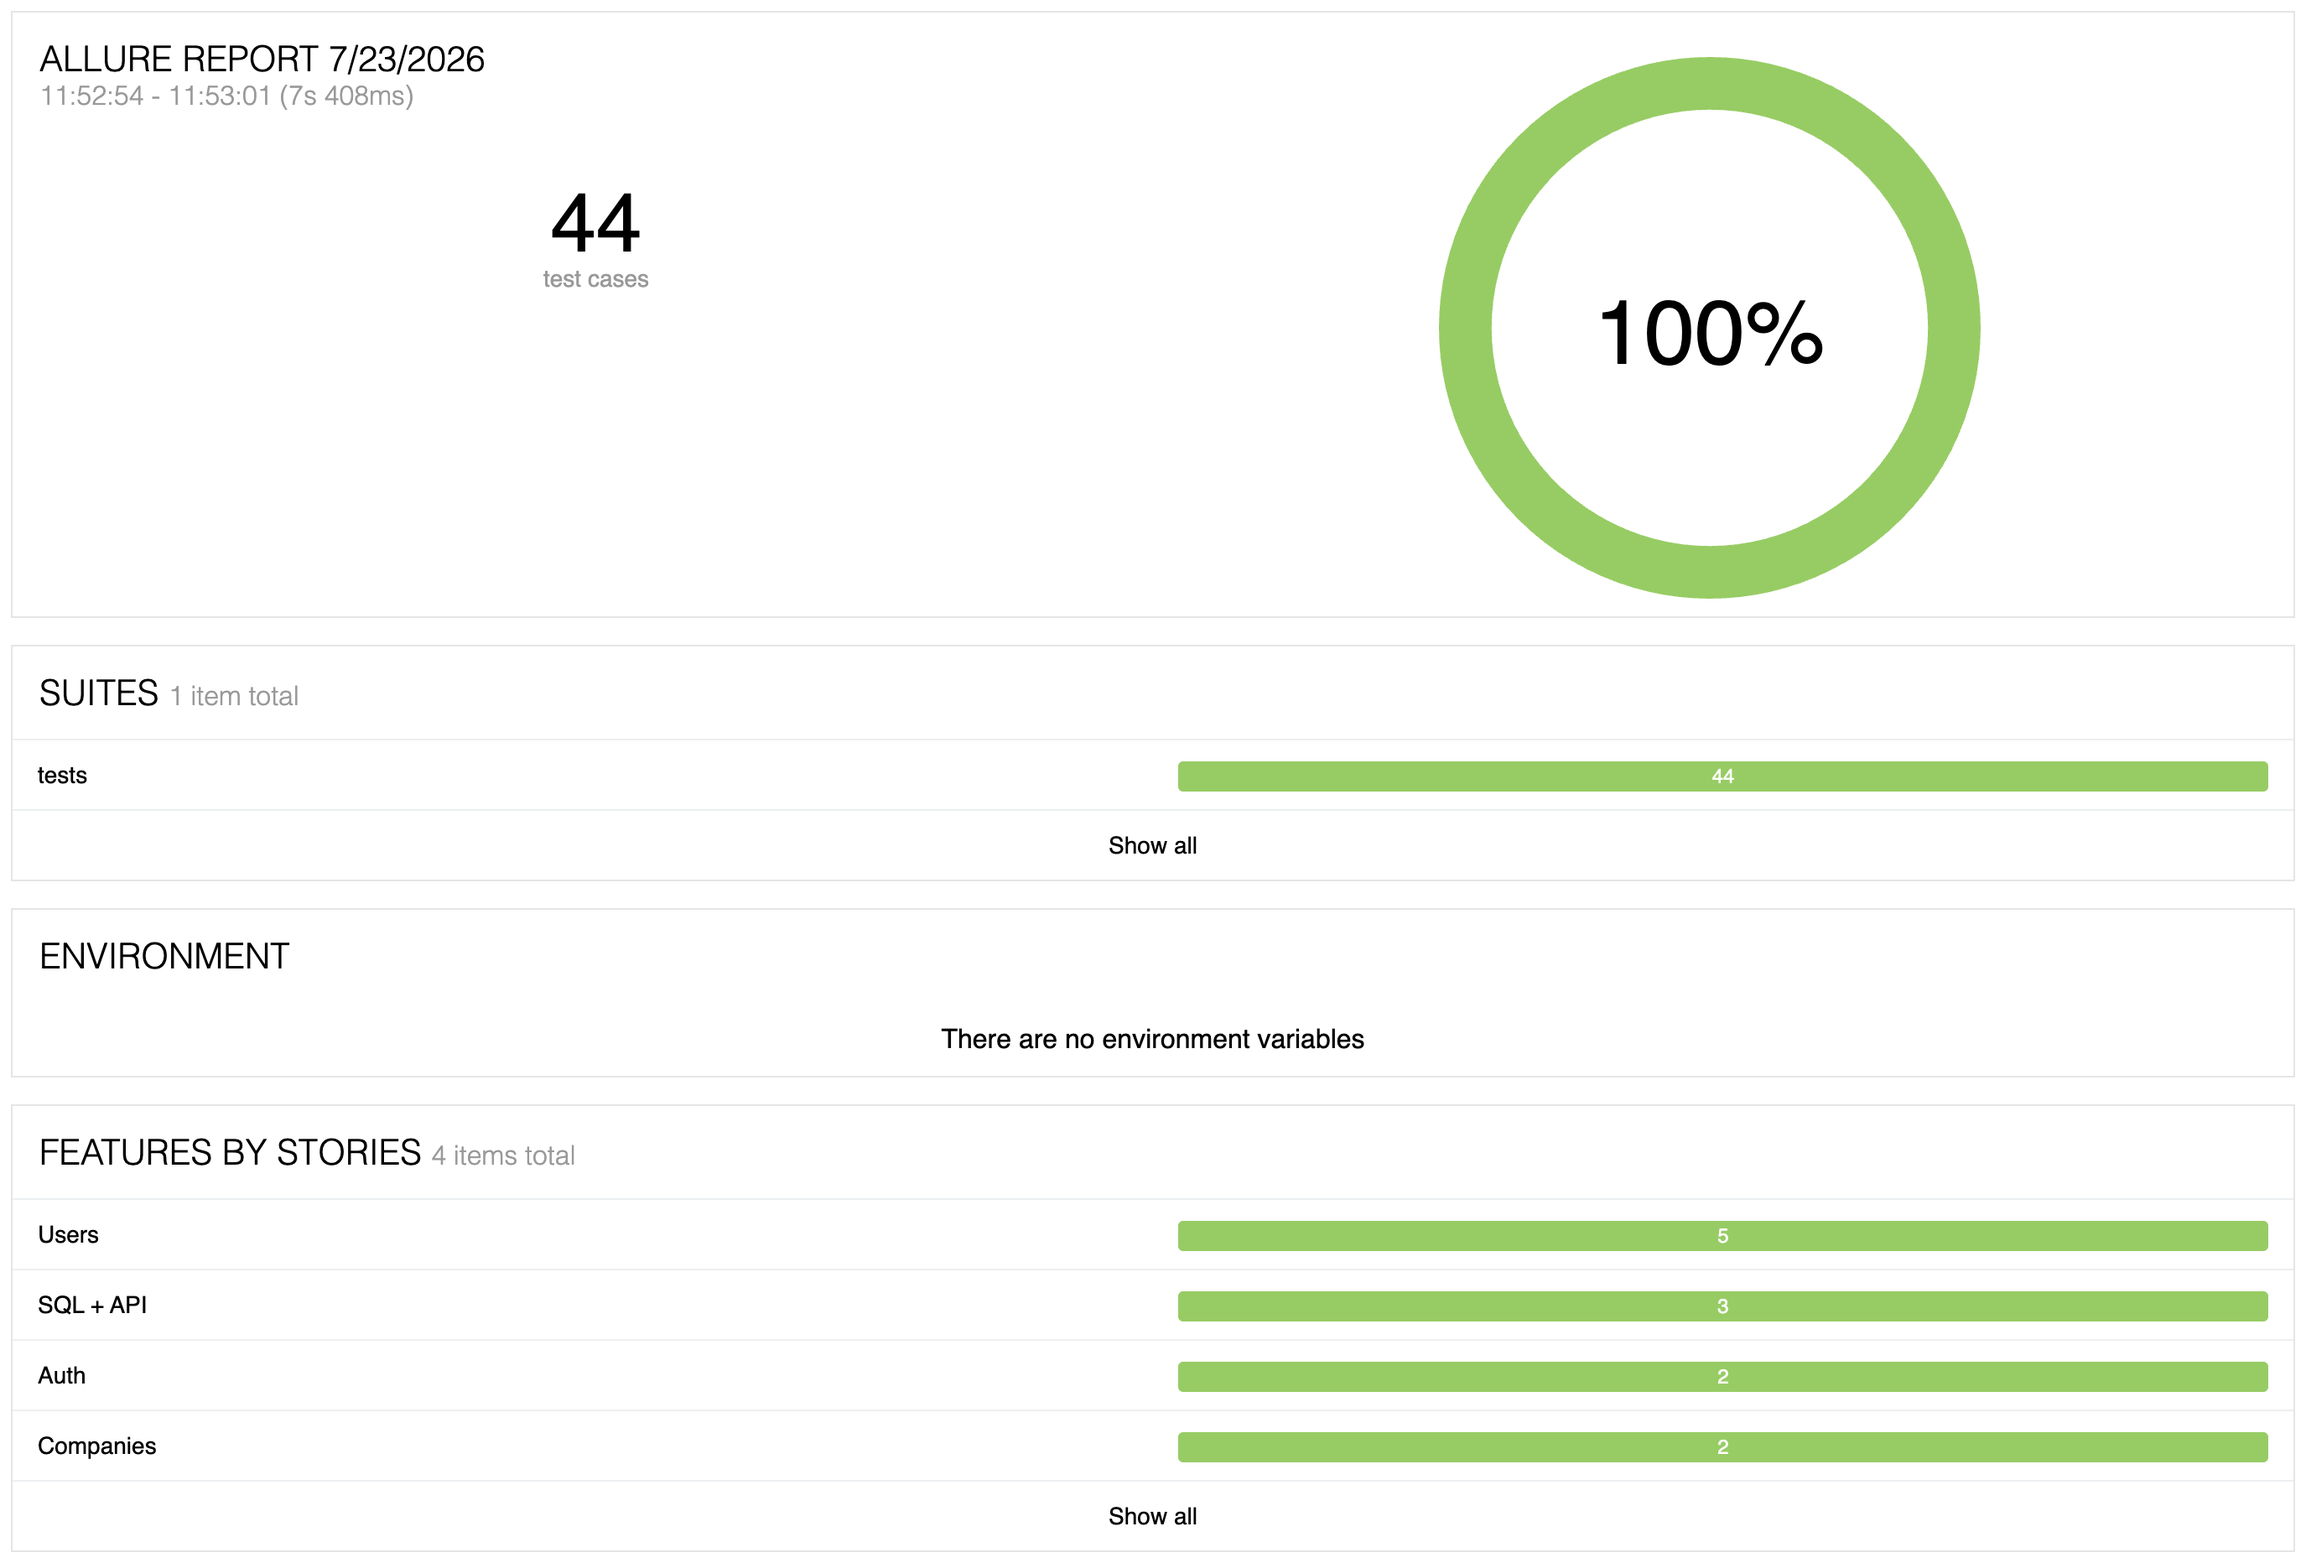
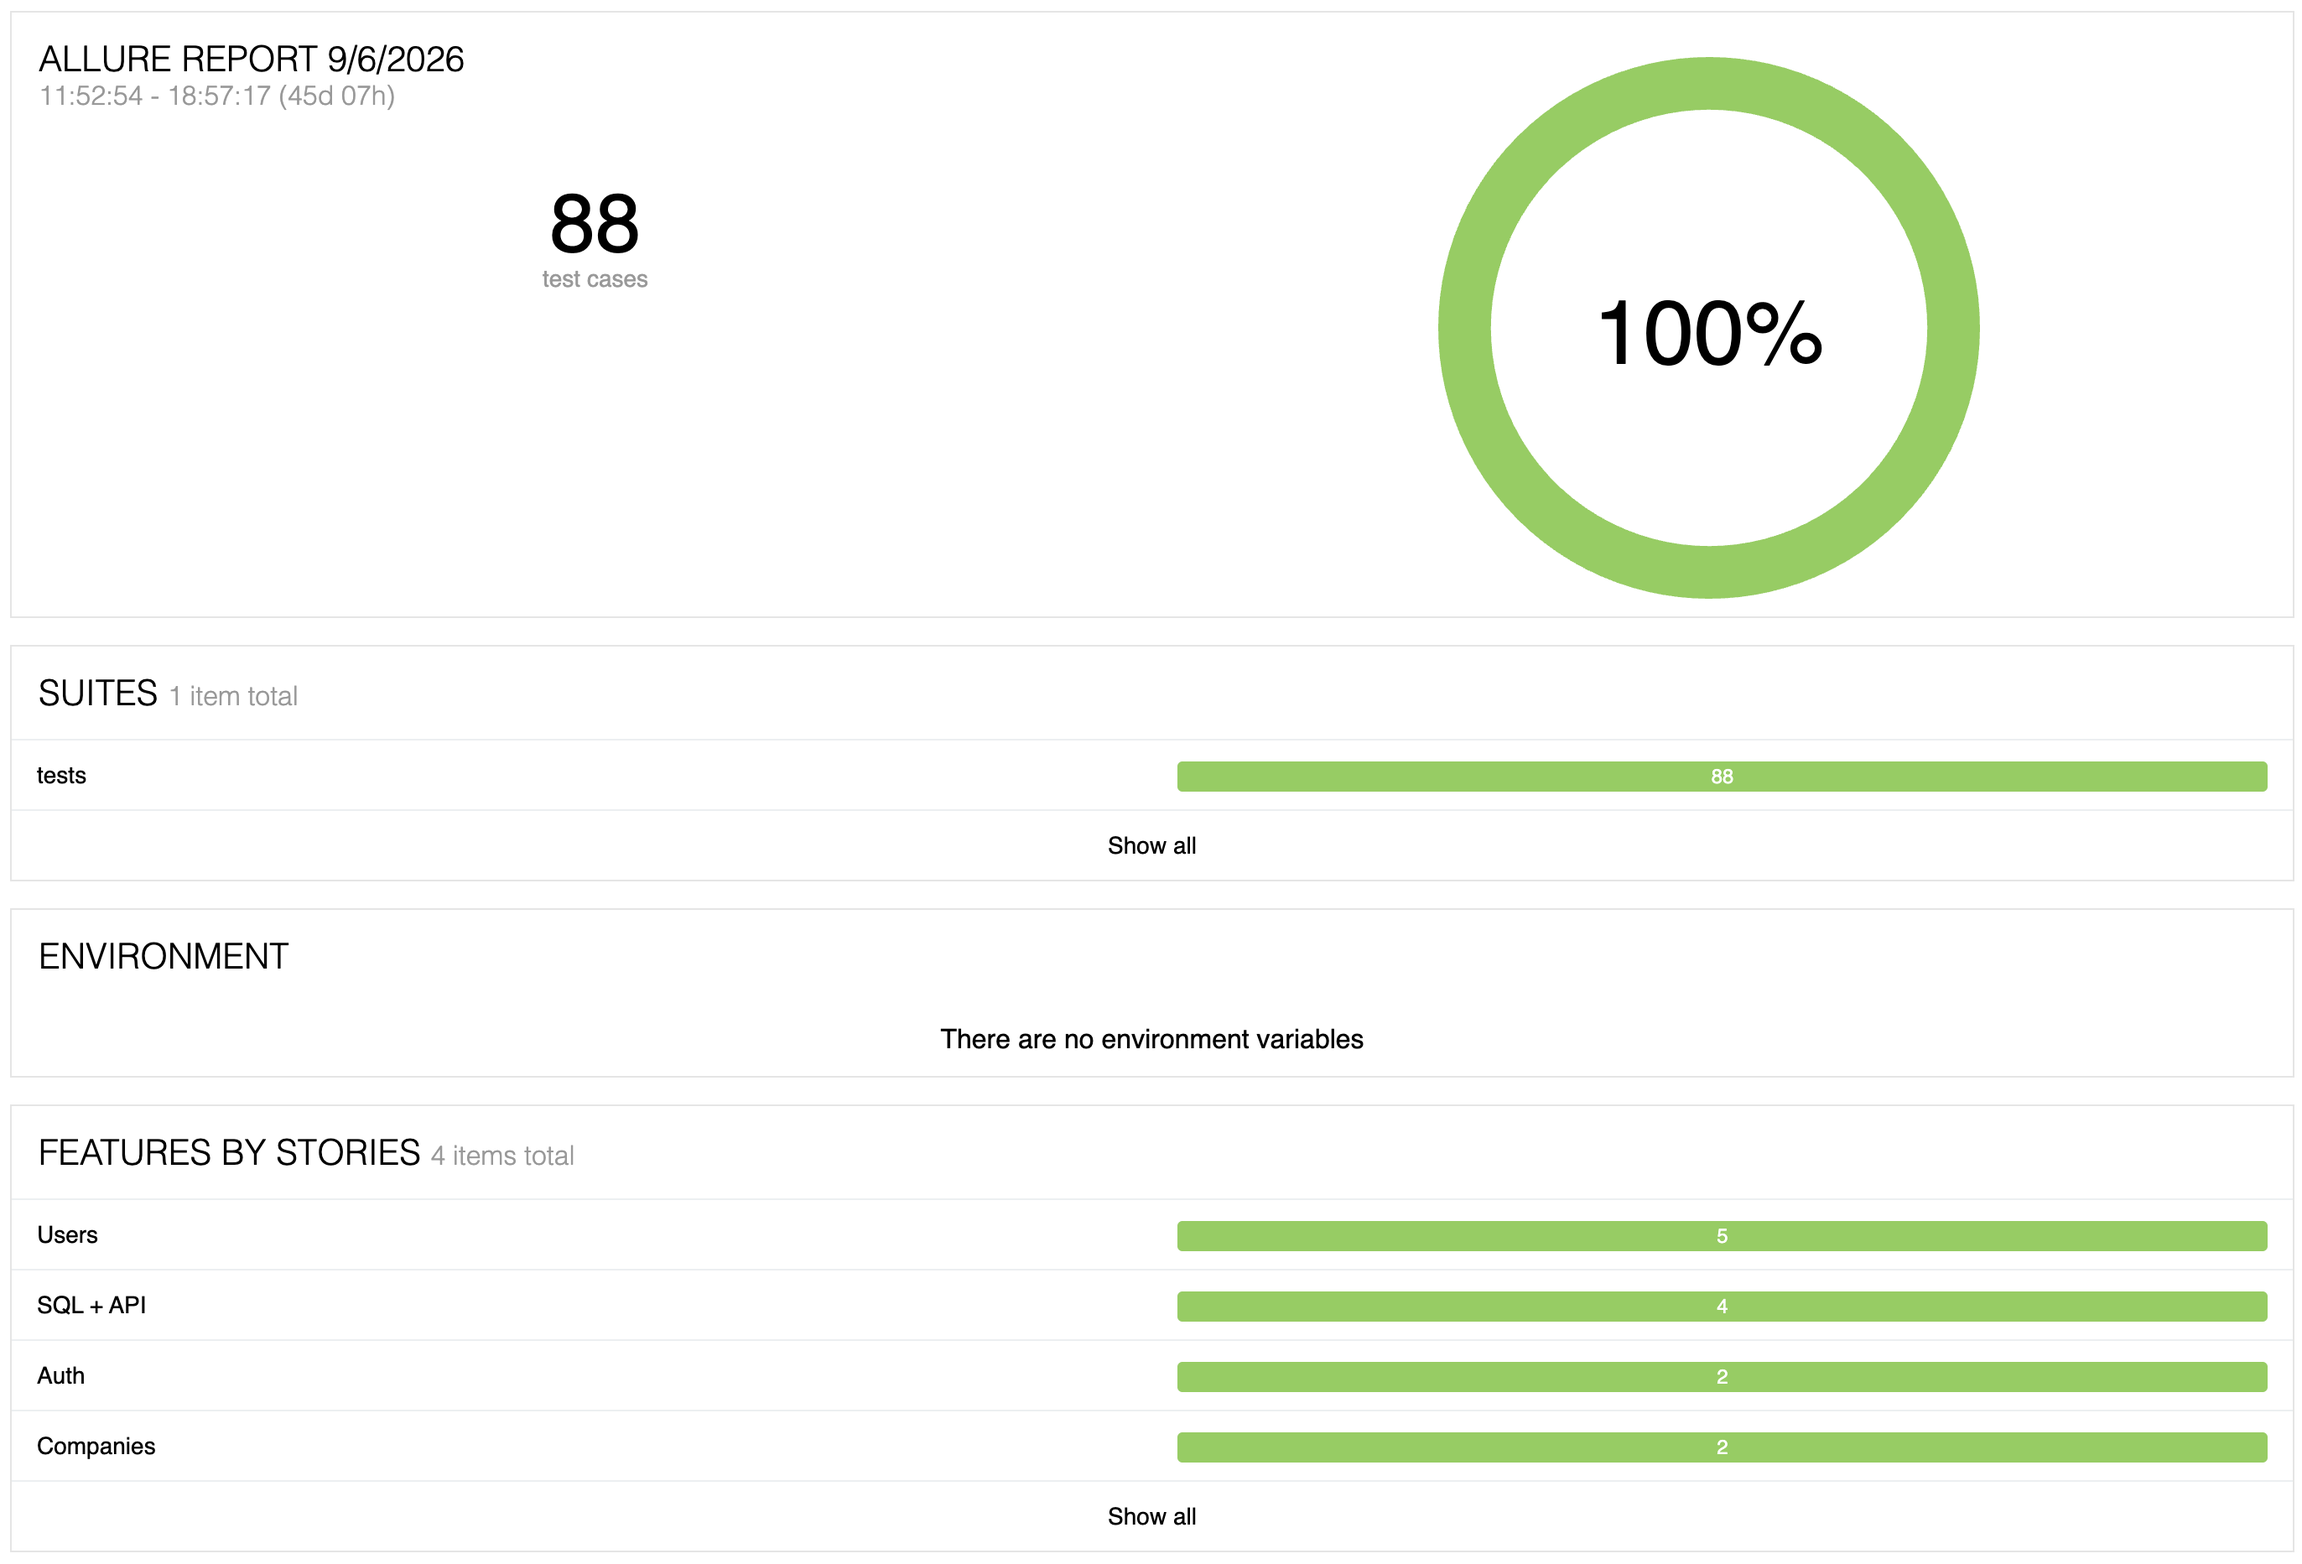
docs: update README

diff --git a/README.md b/README.md
@@ -212,7 +212,7 @@ BASE_URL = https://restapi.tech/api
 
 ## 📸 Результаты тестов
 
-![Результаты pytest](assets/pytest_results.png)
+![Результаты pytest](assets/pytest_result.png)
 
 ---
 
